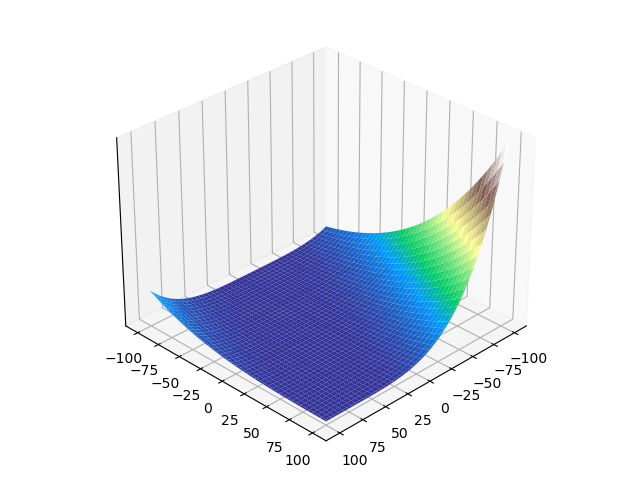
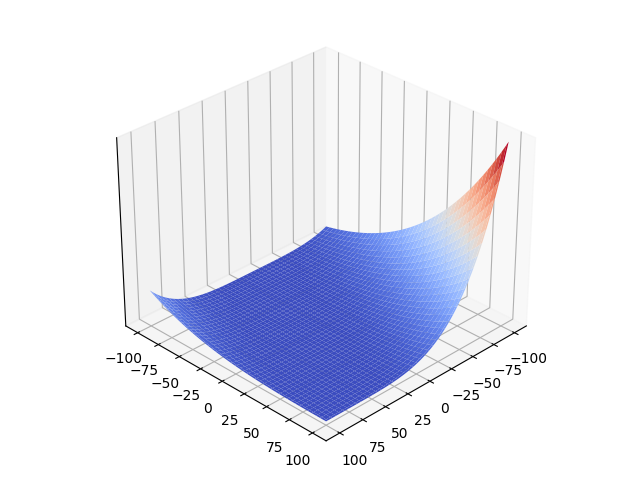
basic landscape

Changed region(s): [[0.2188, 0.3125, 0.8125, 0.875]]

diff --git a/scripts/plot_landscape.py b/scripts/plot_landscape.py
@@ -1,6 +1,6 @@
 import matplotlib.pyplot as plt
 import numpy as np
-from mpl_toolkits.mplot3d import Axes3D
+from matplotlib import cm
 
 # 生成地形数据
 X = np.arange(-100, 100.5, 0.5)
@@ -19,7 +19,7 @@ for i in range(1, 6):
 
     fig = plt.figure()
     ax = fig.add_subplot(111, projection='3d')
-    ax.plot_surface(X, Y, Z, cmap='terrain')
+    ax.plot_surface(X, Y, Z, cmap=cm.coolwarm)
     # 隐藏z轴
     ax.set_zticks([])
     ax.view_init(elev=30, azim=45)
